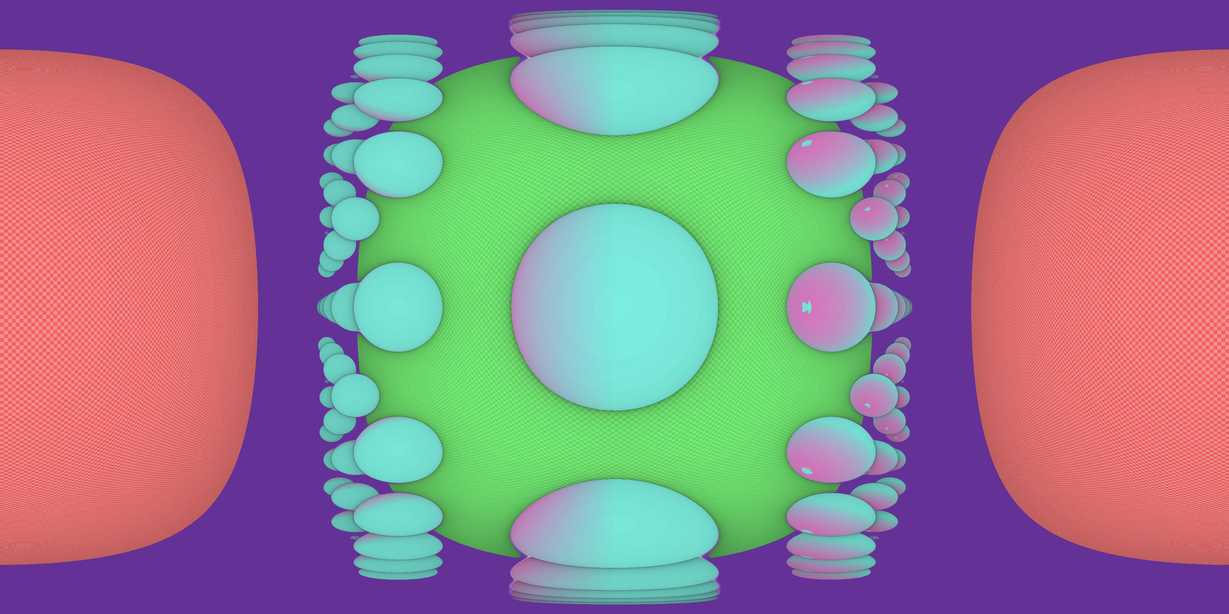
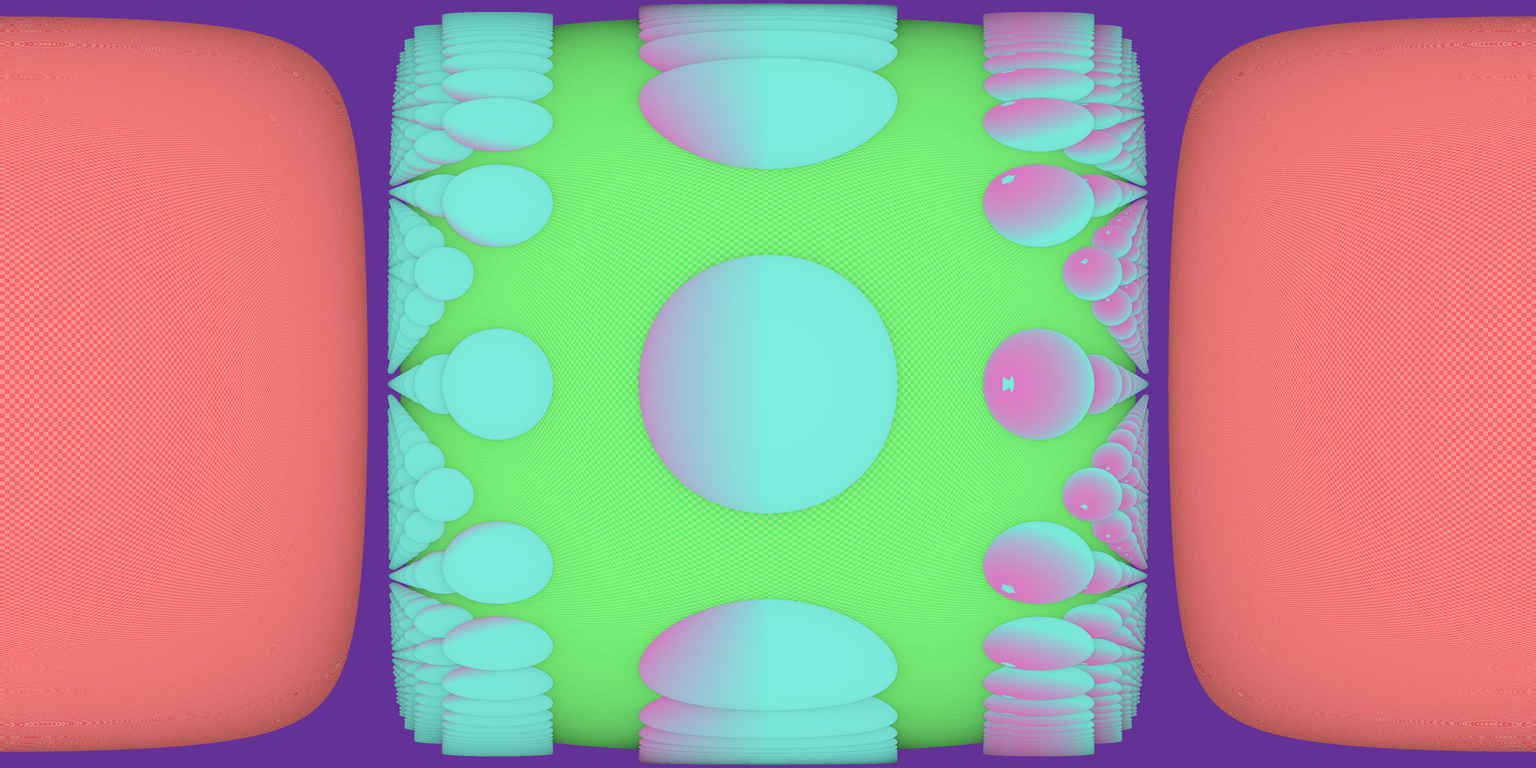
v

diff --git a/Pc/rayarch.py b/Pc/rayarch.py
@@ -3,11 +3,10 @@ import random as rand
 import math as m
 from funct import *
 hit = 1e-2
-max_dist = 20
-max_step = 50
+max_dist = 75
+max_step = 500
 
-
-w = int(4000)
+w = int(5000)
 h = int(w/2)
 
 
@@ -15,7 +14,7 @@ camera = {"dir": [toRad(0), toRad(90)], "poz": [0, 0, 0], "fovX": toRad(360), "f
           "back": lambda ray: mapC((255, 255, 255), (100, 50, 150), ray.dist/max_dist)}
 objects = [
     [lambda ray:circle(ray.poz[0]-2, ((ray.poz[1]+2) % 4)-2, ((ray.poz[2]+2) % 4)-2, 1),
-     lambda ray:mapC((225, 125, 200), (125, 240, 225), (ray.poz[1]+1) % 4)
+     lambda ray:mapC((225, 125, 200), (125, 240, 225), (ray.poz[1]+2) % 4-1)
      ],
 
     #[lambda ray:more(ray.poz[2], 5+m.cos(ray.poz[0])*m.cos(ray.poz[1])),
@@ -46,6 +45,7 @@ class ray:
 
     def __init__(self, poz, direc, back):
         self.poz = poz
+        self.direc=direc
         self.Vx = m.sin(direc[1])*m.cos(direc[0])
         self.Vy = m.sin(direc[1])*m.sin(direc[0])
         self.Vz = m.cos(direc[1])
@@ -78,7 +78,7 @@ class ray:
             self.dist += self.spd
         if self.isHit:
             self.color = mapC(self.color, (0, 0, 0),
-                              self.stepsDone/(max_step*2))
+                              self.stepsDone/300)
         if not self.isHit:
             self.color = self.back(self)
 
@@ -100,6 +100,5 @@ def __main__():
             g.save("render.png", "PNG")
     g.save("render.png", "PNG")
     g.save("render.jpg", "JPEG")
-
 
 __main__()
